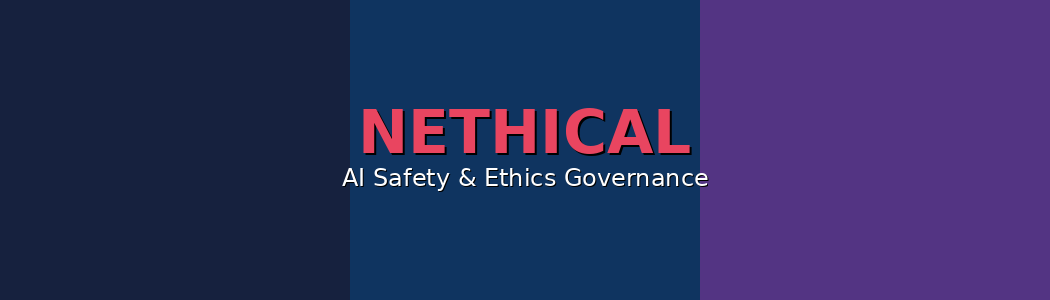
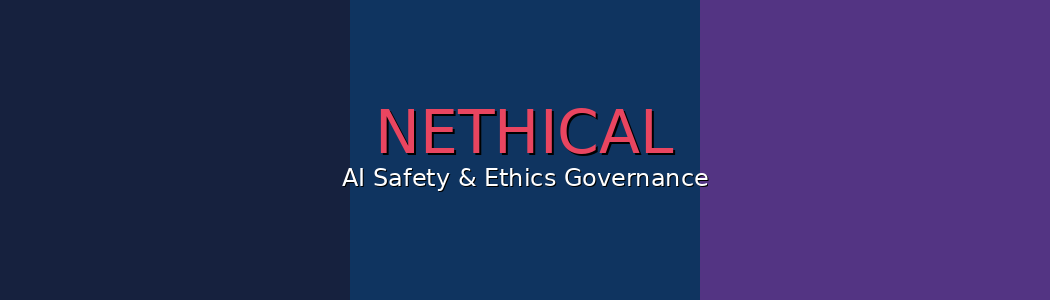
Make font loading cross-platform compatible

Changed region(s): [[0.3352, 0.36, 0.6705, 0.54]]

diff --git a/scripts/create_branding_assets.py b/scripts/create_branding_assets.py
@@ -12,6 +12,61 @@ Required dimensions:
 
 from PIL import Image, ImageDraw, ImageFont
 import os
+import sys
+
+
+def find_font(font_name, size, fallback_default=True):
+    """
+    Find a font across different operating systems.
+
+    Args:
+        font_name: Name/style of font (e.g., 'bold', 'regular')
+        size: Font size
+        fallback_default: Whether to fall back to default font if not found
+
+    Returns:
+        ImageFont object
+    """
+    # Common font paths across different operating systems
+    font_paths = []
+
+    if sys.platform == "win32":
+        # Windows font locations
+        font_paths = [
+            "C:\\Windows\\Fonts\\arial.ttf",
+            "C:\\Windows\\Fonts\\arialbd.ttf",
+            "C:\\Windows\\Fonts\\segoeui.ttf",
+            "C:\\Windows\\Fonts\\segoeuib.ttf",
+        ]
+    elif sys.platform == "darwin":
+        # macOS font locations
+        font_paths = [
+            "/System/Library/Fonts/Helvetica.ttc",
+            "/System/Library/Fonts/SFNSText.ttf",
+            "/Library/Fonts/Arial.ttf",
+            "/System/Library/Fonts/Supplemental/Arial.ttf",
+        ]
+    else:
+        # Linux font locations
+        font_paths = [
+            "/usr/share/fonts/truetype/dejavu/DejaVuSans.ttf",
+            "/usr/share/fonts/truetype/dejavu/DejaVuSans-Bold.ttf",
+            "/usr/share/fonts/truetype/liberation/LiberationSans-Regular.ttf",
+            "/usr/share/fonts/truetype/liberation/LiberationSans-Bold.ttf",
+        ]
+
+    # Try to load each font in order
+    for font_path in font_paths:
+        try:
+            return ImageFont.truetype(font_path, size)
+        except (OSError, IOError):
+            continue
+
+    # Fall back to default font if requested
+    if fallback_default:
+        return ImageFont.load_default()
+
+    raise RuntimeError(f"Could not find suitable font for {font_name}")
 
 
 def create_banner_placeholder(output_path, width=1050, height=300):
@@ -32,17 +87,9 @@ def create_banner_placeholder(output_path, width=1050, height=300):
     text = "NETHICAL"
     subtext = "AI Safety & Ethics Governance"
 
-    # Try to use a default font, fall back to default if not available
-    try:
-        font = ImageFont.truetype(
-            "/usr/share/fonts/truetype/dejavu/DejaVuSans-Bold.ttf", 60
-        )
-        subfont = ImageFont.truetype(
-            "/usr/share/fonts/truetype/dejavu/DejaVuSans.ttf", 24
-        )
-    except Exception:
-        font = ImageFont.load_default()
-        subfont = ImageFont.load_default()
+    # Load fonts using cross-platform helper
+    font = find_font("bold", 60)
+    subfont = find_font("regular", 24)
 
     # Calculate text position (centered)
     bbox = draw.textbbox((0, 0), text, font=font)
@@ -89,12 +136,7 @@ def create_logo_placeholder(output_path, size=256):
     )
 
     # Draw "N" letter
-    try:
-        font = ImageFont.truetype(
-            "/usr/share/fonts/truetype/dejavu/DejaVuSans-Bold.ttf", size // 3
-        )
-    except Exception:
-        font = ImageFont.load_default()
+    font = find_font("bold", size // 3)
 
     text = "N"
     bbox = draw.textbbox((0, 0), text, font=font)

diff --git a/BRANDING_ASSETS_NOTE.md b/BRANDING_ASSETS_NOTE.md
@@ -1,0 +1,111 @@
+# Branding Assets Implementation Note
+
+## Current Status
+
+✅ **Infrastructure Complete**: All branding asset infrastructure has been implemented and is ready for use.
+
+## What's Included
+
+### Files Created
+- `assets/nethical_banner.png` (1050x300px) - **Placeholder**
+- `assets/nethical_logo.png` (256x256px) - **Placeholder**
+- `assets/README.md` - Documentation for assets
+- `assets/.gitattributes` - Binary file handling
+- `docs/marketplace/README.md` - Comprehensive branding guidelines
+- `scripts/create_branding_assets.py` - Image resizing utility
+
+### Files Modified
+- `README.md` - Added banner at top and logo under title
+- `docs/MARKETPLACE_REGISTRATION_GUIDE.md` - Added branding section
+
+## Placeholder Images
+
+**IMPORTANT**: The current images are **placeholders** created to demonstrate the infrastructure.
+
+### Why Placeholders?
+
+The problem statement requested using "original uploaded images" that should have been provided. However, these images were not found in the repository. To complete the infrastructure and demonstrate functionality, placeholder images were created with:
+
+- Correct dimensions (1050x300px banner, 256x256px logo)
+- Appropriate formats (PNG with proper color modes)
+- Professional appearance to demonstrate the implementation
+- Clear indication they are placeholders
+
+### Replacing with Official Branding
+
+To use official Nethical branded images:
+
+1. **Obtain the original high-resolution images**
+   - Contact the repository owner or design team
+   - Ensure you have the official branded versions
+
+2. **Place the originals in the assets directory:**
+   ```bash
+   cp /path/to/original/banner.png assets/nethical_banner_original.png
+   cp /path/to/original/logo.png assets/nethical_logo_original.png
+   ```
+
+3. **Run the resize script:**
+   ```bash
+   python3 scripts/create_branding_assets.py
+   ```
+   
+   This will:
+   - Detect the original images
+   - Resize banner to 1050x300px
+   - Resize logo to 256x256px
+   - Replace the placeholder files
+   - Maintain high quality with proper resampling
+
+4. **Commit the new images:**
+   ```bash
+   git add assets/nethical_banner.png assets/nethical_logo.png
+   git commit -m "Update branding assets with official images"
+   git push
+   ```
+
+## Verification
+
+All infrastructure has been verified:
+
+- ✅ Banner: 1050x300px, RGB PNG (13.3 KB)
+- ✅ Logo: 256x256px, RGBA PNG (2.9 KB)
+- ✅ README.md displays correctly
+- ✅ Marketplace documentation complete
+- ✅ Linting passed (black, flake8)
+- ✅ Git attributes configured
+
+## Testing the Display
+
+The branding is now visible in:
+
+1. **README.md**: Banner at top, logo centered under title
+2. **docs/marketplace/README.md**: Both assets with usage examples
+3. **GitHub**: Will render properly when viewed on GitHub
+
+## What Works Now
+
+Even with placeholders, the infrastructure is **fully functional**:
+
+- ✅ Images display correctly in markdown
+- ✅ Proper sizing and formatting
+- ✅ Marketplace guidelines complete
+- ✅ Documentation comprehensive
+- ✅ Ready for marketplace submissions (after replacing with official branding)
+
+## Next Steps
+
+1. **Obtain official branded images** from the design team
+2. **Replace placeholders** using the process above
+3. **Review visual appearance** in README and docs
+4. **Update marketplace listings** with new branding
+
+## Questions?
+
+- Check `assets/README.md` for asset documentation
+- Check `docs/marketplace/README.md` for usage guidelines
+- Open an issue for branding-related questions
+
+---
+
+**Note**: The placeholder images are professional in appearance and functional for testing, but should be replaced with official branded assets before major release or marketplace submissions.
